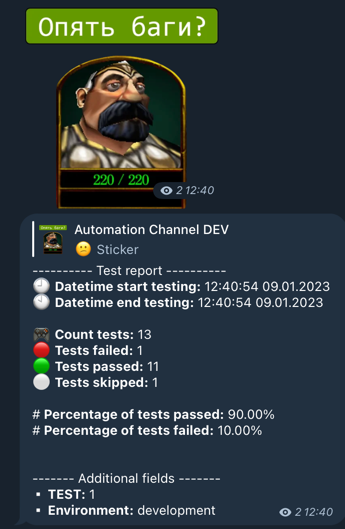
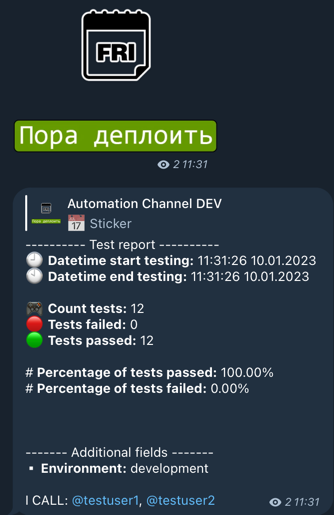
Fix for xdist and remove skipped tests (#20)
* Fix for xdist and remove skipped tests

* Refactoring doc and skipped

Changed region(s): [[0.0299, 0.0, 0.9581, 0.8388], [0.0599, 0.8699, 0.6587, 0.9942], [0.8084, 0.9631, 0.9581, 0.9942]]

diff --git a/telegram_notifier/telegram_manager.py b/telegram_notifier/telegram_manager.py
@@ -31,8 +31,6 @@ class TelegramManagerAdditionalFieldsWorker:
 class TelegramManager:
     def __init__(self, config: Config):
         self.datetime_start_tests = None
-        self.teststotal = 0
-        self.testsskipped = 0
 
         self._config = config
         self._additional_fields_worker = TelegramManagerAdditionalFieldsWorker()
@@ -56,11 +54,9 @@ class TelegramManager:
             '\U0001F559 *Datetime end testing:* {datetimeend}\n\n'
             '\U0001F3AE *Count tests:* {teststotal}\n'
             '\U0001F534 *Tests failed:* {testsfailed}\n'
-            '\U0001F7E2 *Tests passed:* {testspassed}\n'
-            '\U000026AA *Tests skipped:* {testsskipped}\n\n'
+            '\U0001F7E2 *Tests passed:* {testspassed}\n\n'
             '\U00000023 *Percentage of tests passed:* {percentpassedtests:.2f}%\n'
-            '\U00000023 *Percentage of tests failed:* {percentfailedtests:.2f}%\n'
-            '\U00000023 *Percentage of tests skipped:* {percentskippedtests:.2f}%\n'
+            '\U00000023 *Percentage of tests failed:* {percentfailedtests:.2f}%\n\n'
         )
         if isinstance(additional_fields, dict) and additional_fields:
             template += '\n\n------- Additional fields -------\n'
@@ -78,9 +74,8 @@ class TelegramManager:
     def pytest_sessionstart(self):
         self.datetime_start_tests = datetime.now()
 
-    @pytest.hookimpl(trylast=True)
+    @pytest.hookimpl(tryfirst=True)
     def pytest_collection_modifyitems(self, items: list[Item]):
-        self.teststotal = len(items)
         self.testsskipped = len(
             [
                 markers
@@ -89,7 +84,7 @@ class TelegramManager:
             ]
         )
 
-    @pytest.hookimpl
+    @pytest.hookimpl(trylast=True)
     def pytest_sessionfinish(self, session: Session):
         self._config.hook.pytest_telegram_notifier_message_additional_fields(config=self._config)
         self._additional_fields_worker.register_additional_fields(
@@ -100,18 +95,18 @@ class TelegramManager:
             additional_fields=self.additional_fields_worker.fields,
         )[0]
 
-        if self.teststotal > 0:
-            testspassed = self.teststotal - session.testsfailed - self.testsskipped
+        teststotal = session.testscollected
+
+        if teststotal > 0:
+            testspassed = teststotal - session.testsfailed
             kwargs = {
                 'datetimestart': self.datetime_start_tests.strftime('%H:%M:%S %d.%m.%Y'),
                 'datetimeend': datetime.now().strftime('%H:%M:%S %d.%m.%Y'),
-                'teststotal': self.teststotal,
-                'testspassed': self.teststotal - session.testsfailed - self.testsskipped,
+                'teststotal': teststotal,
+                'testspassed': teststotal - session.testsfailed,
                 'testsfailed': session.testsfailed,
-                'testsskipped': self.testsskipped,
-                'percentpassedtests': round(testspassed / self.teststotal * 100, 2),
-                'percentfailedtests': round(session.testsfailed / self.teststotal * 100, 2),
-                'percentskippedtests': round(self.testsskipped / self.teststotal * 100, 2),
+                'percentpassedtests': round(testspassed / teststotal * 100, 2),
+                'percentfailedtests': round(session.testsfailed / teststotal * 100, 2),
             }
 
             if (

diff --git a/telegram_notifier/plugin.py b/telegram_notifier/plugin.py
@@ -7,7 +7,6 @@ from . import hooks
 from .telegram_manager import TelegramManager, TelegramManagerAdditionalFieldsWorker
 
 
-@pytest.hookimpl
 def pytest_addoption(parser: Parser):
     group = parser.getgroup('telegram_notifier')
     group.addoption(
@@ -23,18 +22,22 @@ def pytest_addoption(parser: Parser):
     )
 
 
-@pytest.hookimpl
 def pytest_addhooks(pluginmanager: PluginManager):
     pluginmanager.add_hookspecs(hooks)
 
 
-@pytest.hookimpl(trylast=True)
 def pytest_configure(config: Config):
     if not config.option.telegram_notifier:
         return
 
-    manager = TelegramManager(config)
-    config.pluginmanager.register(manager, 'pytest_telegram_notifier')
+    if not hasattr(config, 'workerinput'):
+        manager = TelegramManager(config)
+        config.pluginmanager.register(manager, 'pytest_telegram_notifier')
+
+
+def pytest_unconfigure(config: Config):
+    if not hasattr(config, 'workerinput'):
+        config.pluginmanager.unregister(name='pytest_telegram_notifier')
 
 
 @pytest.fixture(scope='session')
